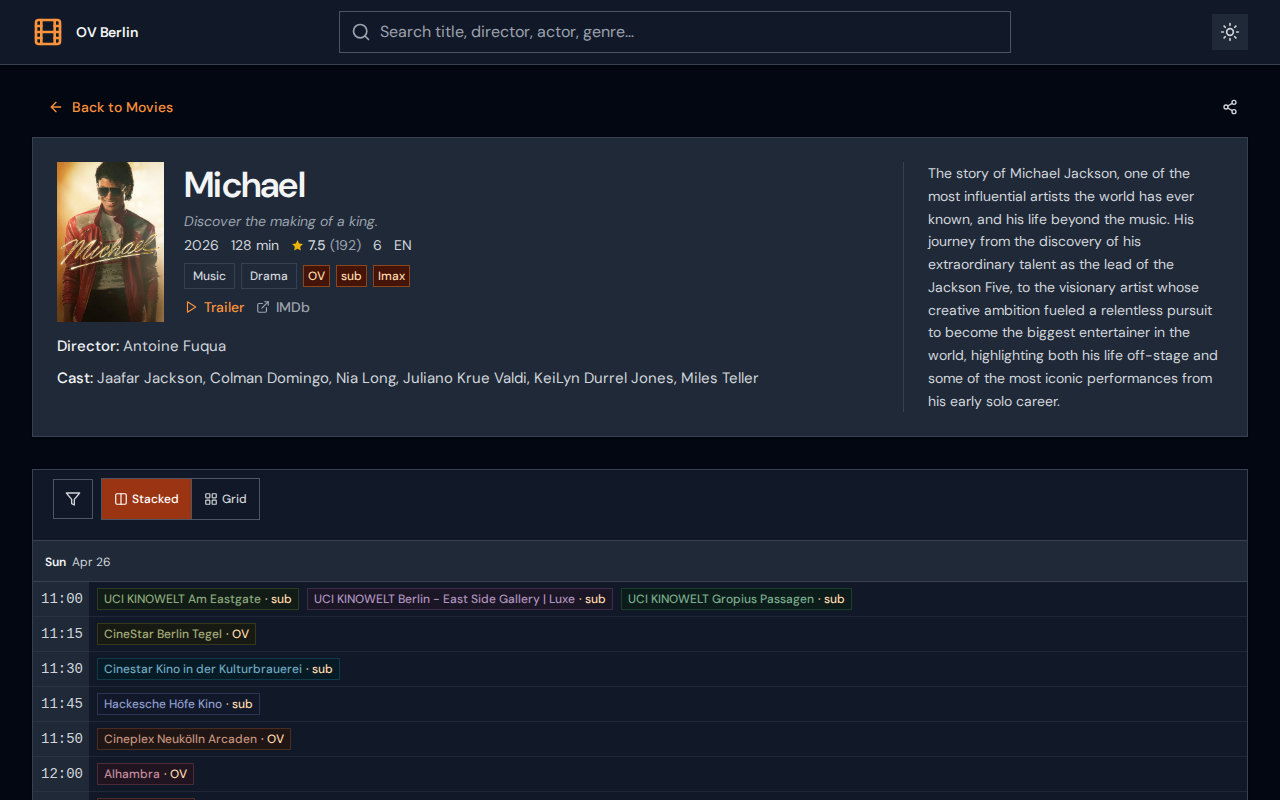
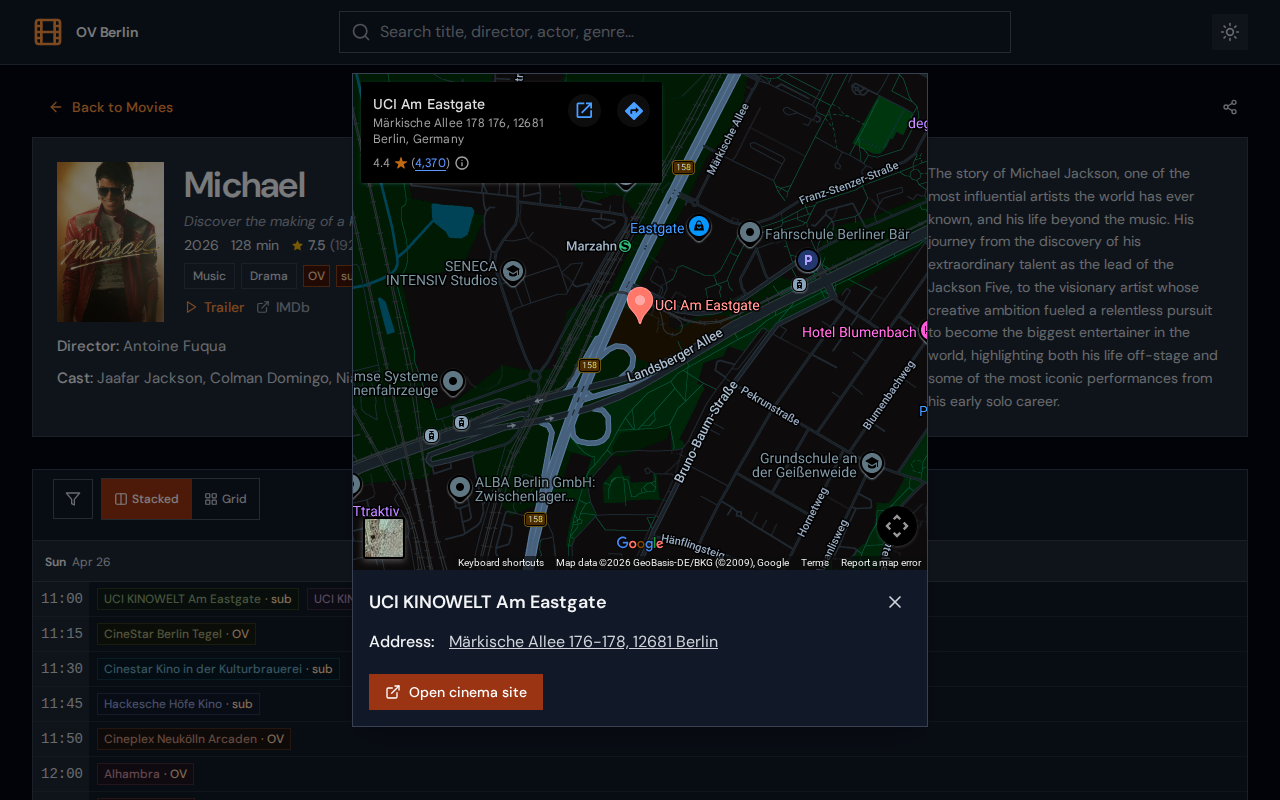
fix(screenshots): target cinema badge buttons in table rows for popup screenshot

diff --git a/scripts/screenshot.ts b/scripts/screenshot.ts
@@ -32,9 +32,11 @@ async function main() {
   // 2 — Cinema popup with map (desktop)
   await page.goto(`${BASE_URL}${href}`, { waitUntil: 'networkidle' });
   await wait(600);
-  const cinemaBtn = page.locator('button[title]').filter({ hasText: /\S/ }).first();
+  const cinemaBtn = page.locator('tr button[title]').first();
+  await cinemaBtn.scrollIntoViewIfNeeded();
+  await wait(300);
   await cinemaBtn.click();
-  await wait(1500);
+  await wait(2000); // wait for map iframe to load
   await page.screenshot({ path: `${OUT_DIR}/screenshot2.png` });
   console.log('✓ screenshot2.png — cinema popup with map');
 
